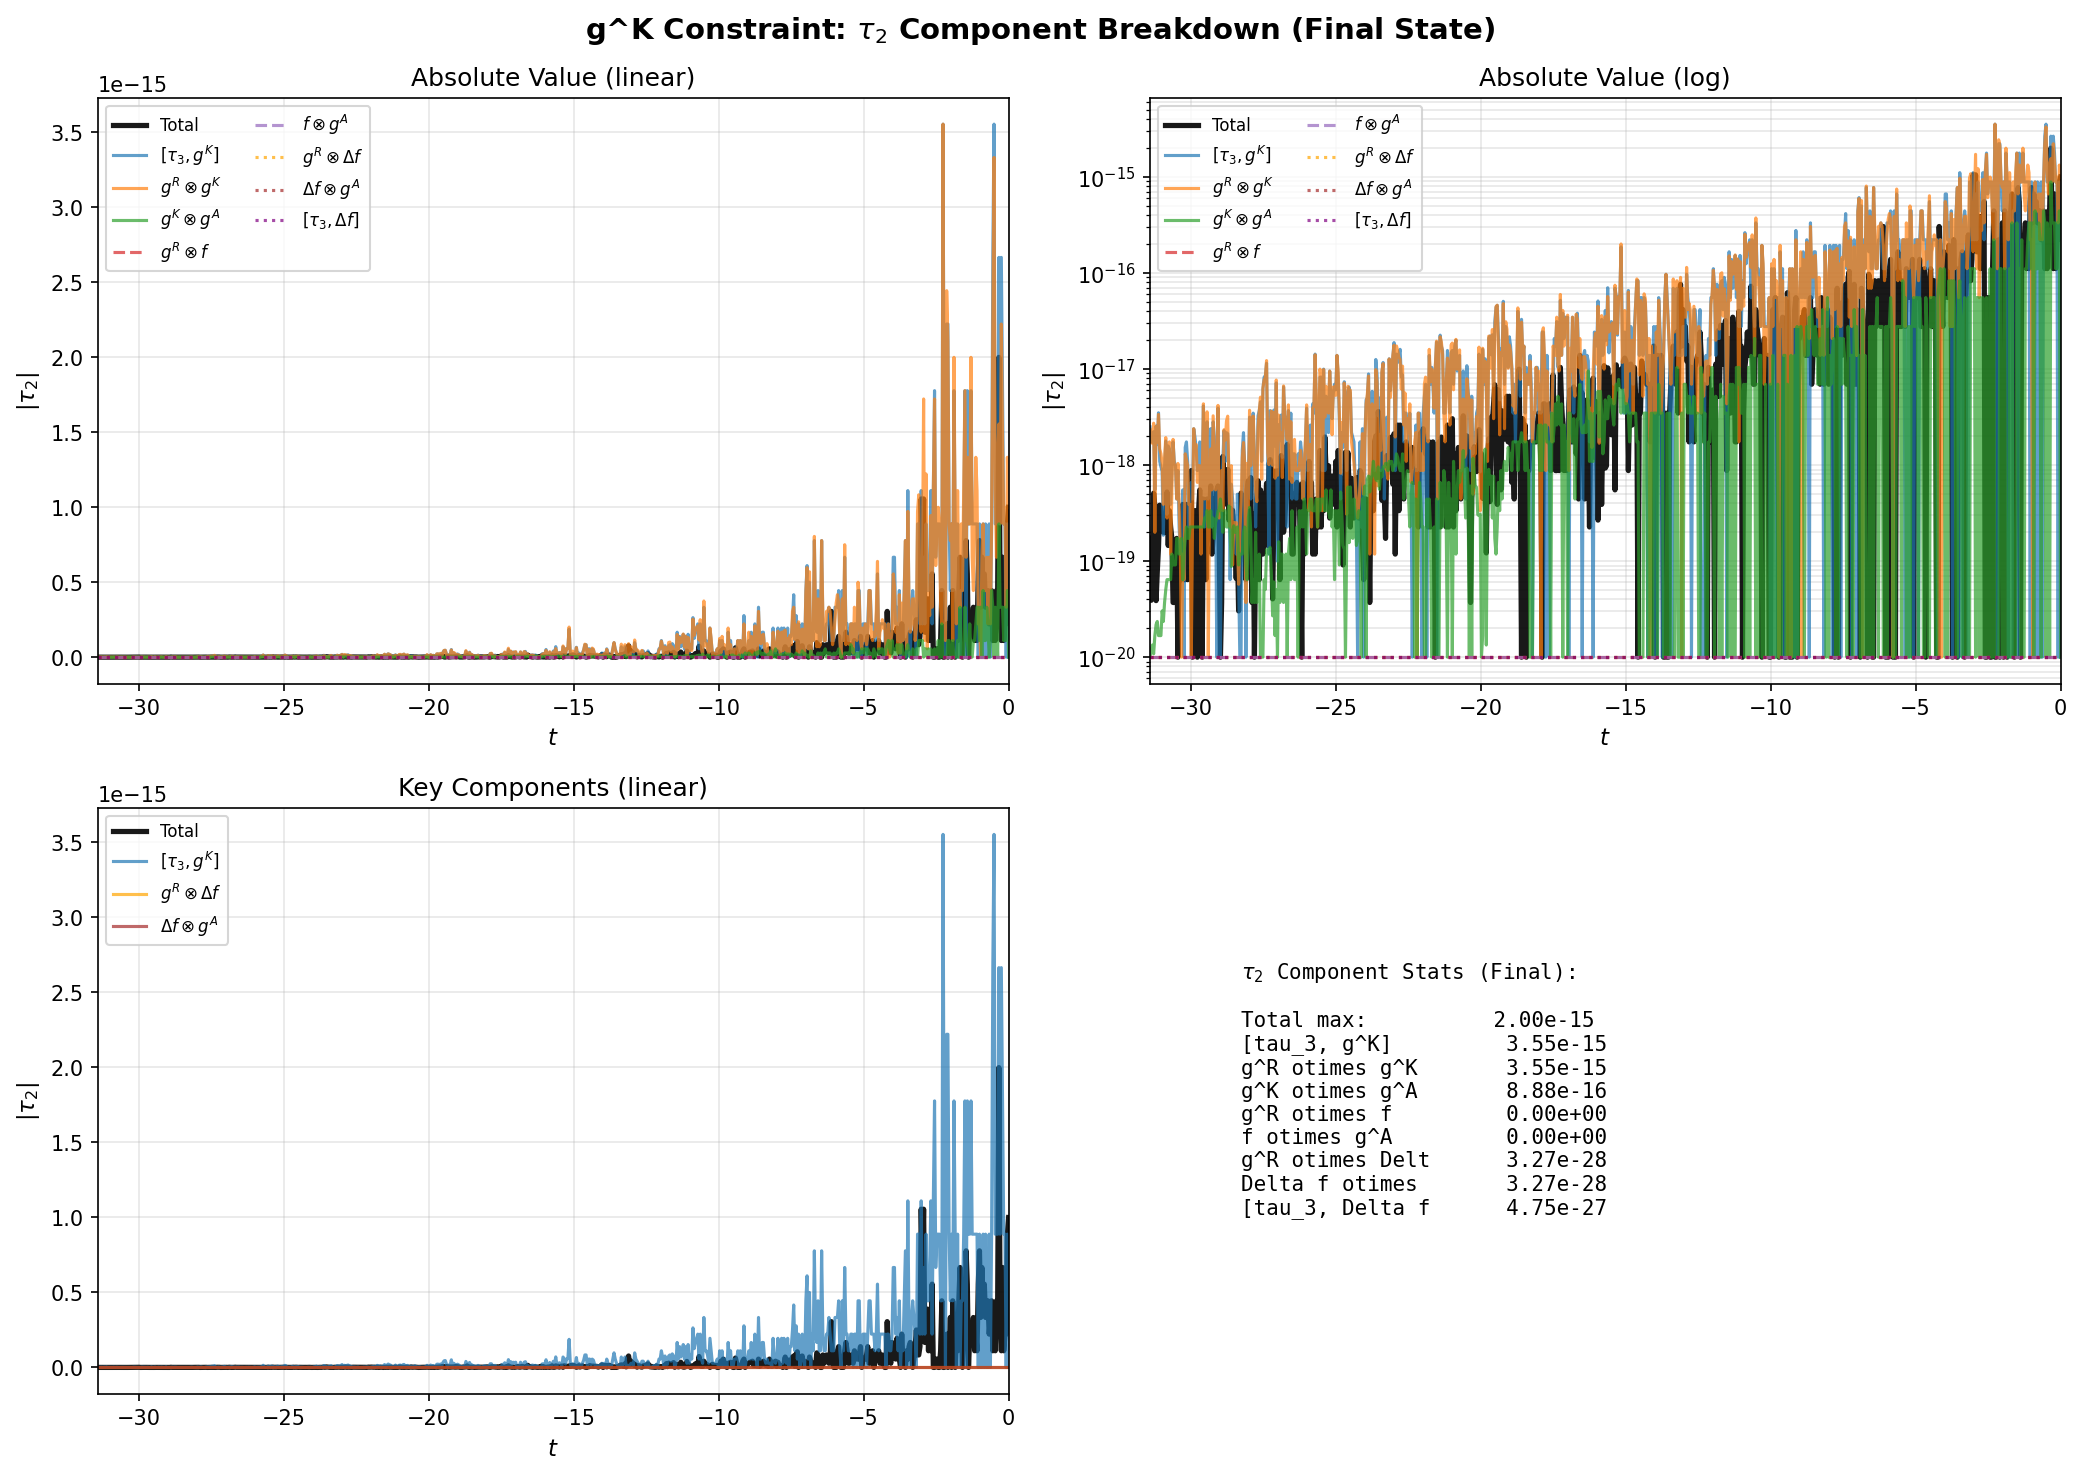
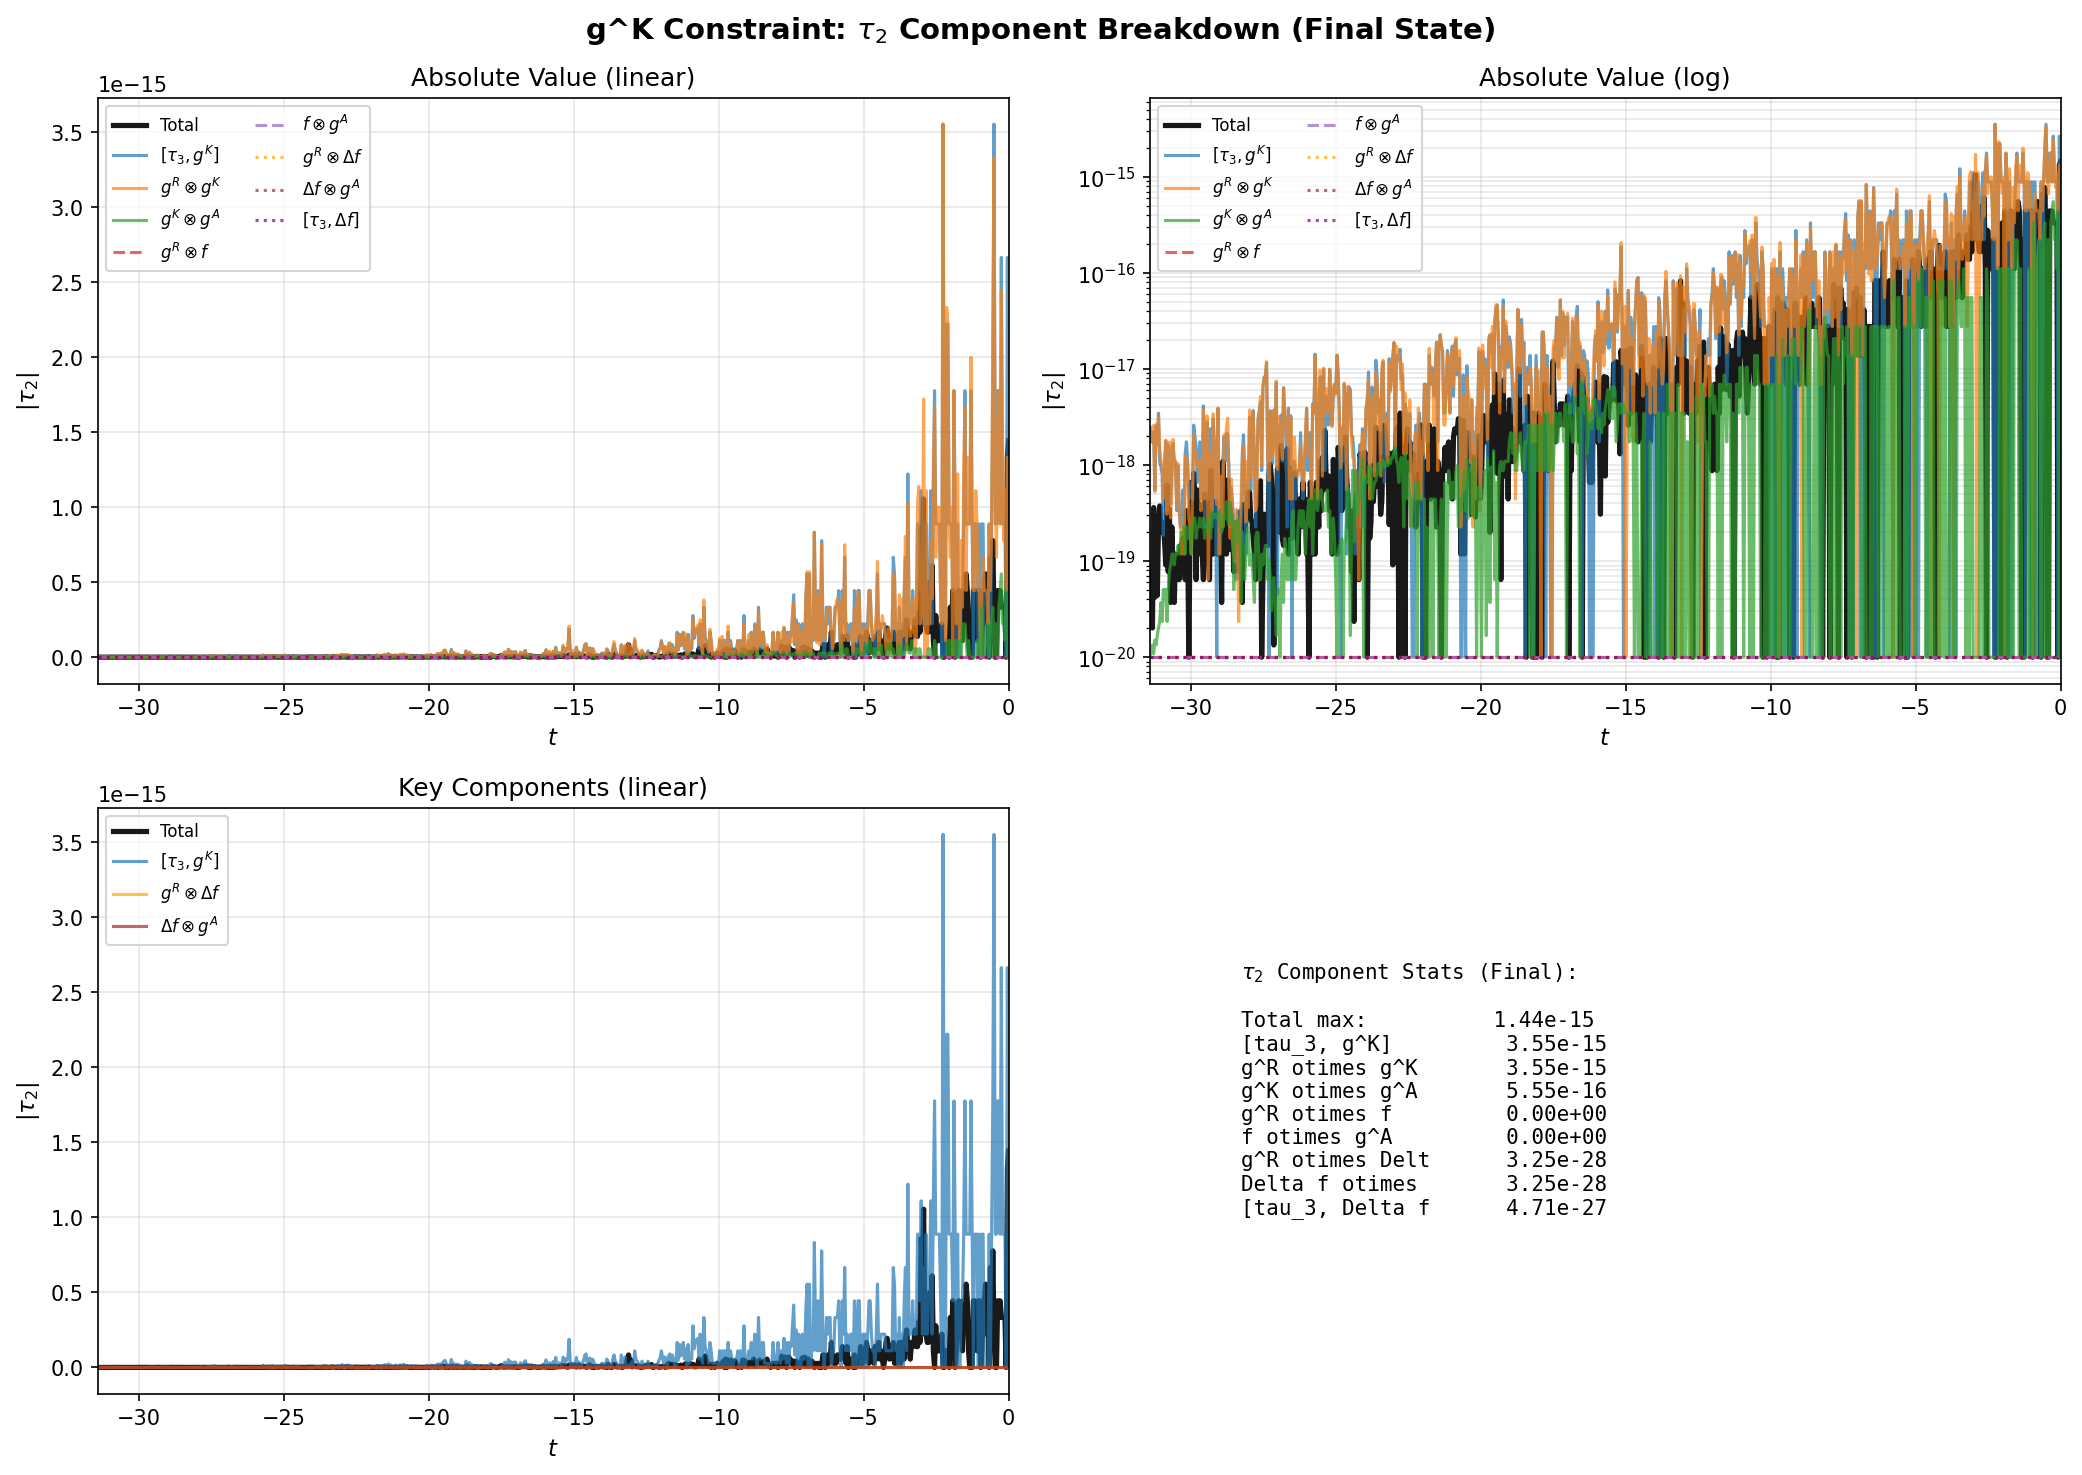
Update before the change.

diff --git a/usadel_keldysh_evolution.py b/usadel_keldysh_evolution.py
@@ -1052,10 +1052,11 @@ class UsadelKeldyshEvolution:
 
         diag_g_history_list += [(-gr_last_row * self.delta_t, tau0)] 
 
-        rhs_term_1 +=   -2 * (tau3 * ga.precise_convolution_right(self.thermal_dist[-1:,:],self.thermal_integral[-1:,:],self.delta_t,self_index=-1, precomputed_sum=self.thermal_sum_left[-1:,:], gap_tensor = gap_tensor) + gr_last_row.precise_convolution_left(self.thermal_dist , self.thermal_integral[-1:,:], self.delta_t, other_index=-1, precomputed_sum=self.thermal_sum_right[-1:,:],gap_tensor = gap_tensor) * tau3)
+        rhs_term_1 += -2 * (tau3 * ga.precise_convolution_right(self.thermal_dist[-1:,:],self.thermal_integral[-1:,:],self.delta_t,self_index=-1, precomputed_sum=self.thermal_sum_left[-1:,:]) + gr_last_row.precise_convolution_left(self.thermal_dist , self.thermal_integral, self.delta_t, other_index=-1, precomputed_sum=self.thermal_sum_right) * tau3)
         
-        # convolution with the midpoint rule    
-        thermal_gap_conv = -1  * self.delta_t  *  (gr_last_row @ thermal_gap_term - 0.5 * gr_last_row[-1:,-1:] * thermal_gap_term[-1:,:] + thermal_gap_term[-1:,:] @ ga - 0.5 * thermal_gap_term[-1:,:] * ga.diagonal_time())
+        # convolution with the midpoint rule
+        thermal_gap_conv = -1  * self.delta_t  *  (gr_last_row @ thermal_gap_term - 0.5 * gr_last_row[-1:,0:1] * thermal_gap_term[0:1,:] - 0.5 * gr_last_row[-1:,-1:] * thermal_gap_term[-1:,:]
+                                                     + thermal_gap_term[-1:,:] @ ga - 0.5 * thermal_gap_term[-1:,0] * ga[0:1,:] - 0.5 * thermal_gap_term[-1:,:] * ga.diagonal_time())
 
         #* regularization of the thermal_gap_integral with gr
         eval_time_1 = -self.tmax - self.time_grid
@@ -1461,7 +1462,7 @@ class UsadelKeldyshEvolution:
                 dt_end = None if dt_shift == 0 else -dt_shift
                 # Dynes self-energy terms -- sigma^K g^A + g^R sigma^K 
                 thermal_term += cn_factor * -2j * self.eta * ( tau3 * ga.precise_convolution_right(self.thermal_dist[-1-dt_shift:dt_end,:],self.thermal_integral[-1-dt_shift:dt_end,:], self.delta_t,self_index=-1-dt_shift, precomputed_sum=self.thermal_sum_left[-1-dt_shift:dt_end,:]).shift(dt_prime_shift, axis=1)
-                - gr[-1-dt_shift:dt_end,:].precise_convolution_left(self.thermal_dist, self.thermal_integral[-1-dt_shift:dt_end,:], self.delta_t, other_index=-1, precomputed_sum=self.thermal_sum_right[-1-dt_shift:dt_end,:]).shift(dt_prime_shift, axis=1) * tau3)
+                - gr[-1-dt_shift:dt_end,:].precise_convolution_left(self.thermal_dist, self.thermal_integral, self.delta_t, other_index=-1, precomputed_sum=self.thermal_sum_right).shift(dt_prime_shift, axis=1) * tau3)
                 # gap-f term
                 thermal_term += cn_factor * -2 * (-1j  * gap_tensor[-1-dt_shift] * tau3 * self.thermal_dist[-1-dt_shift:dt_end,:].shift(dt_prime_shift, axis=1) + 1j * tau3 * self.thermal_dist[-1-dt_shift:dt_end,:].shift(dt_prime_shift, axis=1) * gap_tensor.shift(dt_prime_shift, axis=0))
                 # new term 
@@ -1501,8 +1502,8 @@ class UsadelKeldyshEvolution:
                 for dt_shift in [0, 1]:  # NEW: Add missing dt_shift loop
                     dt_end = None if dt_shift == 0 else -dt_shift
 
-                    term1_left = -2j * (A_tensor[-1-dt_shift] * tau3 * gr[-1-dt_shift:dt_end, :] * A_tensor).precise_convolution_left(self.thermal_dist, self.thermal_integral[-1-dt_shift:dt_end,:], self.delta_t, other_index=-1, precomputed_sum=self.thermal_sum_right[-1-dt_shift:dt_end,:]).shift(dt_prime_shift, axis=1)
-                    term2_left = +2j * (gr[-1-dt_shift:dt_end, :] * A_tensor * tau3).precise_convolution_left(self.thermal_dist, self.thermal_integral[-1-dt_shift:dt_end,:], self.delta_t, other_index=-1, precomputed_sum=self.thermal_sum_right[-1-dt_shift:dt_end,:]).shift(dt_prime_shift, axis=1) * A_tensor.shift(dt_prime_shift, axis=0)
+                    term1_left = -2j * (A_tensor[-1-dt_shift] * tau3 * gr[-1-dt_shift:dt_end, :] * A_tensor).precise_convolution_left(self.thermal_dist, self.thermal_integral, self.delta_t, other_index=-1, precomputed_sum=self.thermal_sum_right).shift(dt_prime_shift, axis=1)
+                    term2_left = +2j * (gr[-1-dt_shift:dt_end, :] * A_tensor * tau3).precise_convolution_left(self.thermal_dist, self.thermal_integral, self.delta_t, other_index=-1, precomputed_sum=self.thermal_sum_right).shift(dt_prime_shift, axis=1) * A_tensor.shift(dt_prime_shift, axis=0)
                     term1and2_right = -2j * (A_tensor[-1-dt_shift] * tau3 * A_tensor * ga - A_tensor * ga * A_tensor * tau3).precise_convolution_right(self.thermal_dist[-1-dt_shift:dt_end,:],self.thermal_integral[-1-dt_shift:dt_end,:], self.delta_t,self_index=-1-dt_shift, precomputed_sum=self.thermal_sum_left[-1-dt_shift:dt_end,:]).shift(dt_prime_shift, axis=1)
 
                     em_thermal_conv1 += cn_factor * (term1_left + term2_left + term1and2_right)

diff --git a/state_object_class.py b/state_object_class.py
@@ -403,38 +403,33 @@ class StateObject:
 
         thermal_gap_term = (- thermal_integral * gap_tensor - gap_tensor * thermal_integral)
 
-        # Commutator term: [τ₃, g^K(t1, t2)] for all t2
-        commutator = tau3 * gk_row - gk_row * tau3  
-
-        # Add thermal_gap_term commutator: [τ₃, thermal_gap_term(t1, t2)]
+        # Add thermal_gap_term commutator:
         thermal_gap_commutator = tau3 * thermal_gap_term[t1_pos:t1_pos+1, :] - thermal_gap_term[t1_pos:t1_pos+1, :] * tau3
-        commutator = commutator + thermal_gap_commutator
+        
+        # commutator
+        commutator = tau3 * gk_row - gk_row * tau3   + thermal_gap_commutator
         
         # First convolution: ∫ g^R(t1, t') g^K(t', t2) dt' for all t2
-        conv1 = (gr_row @ self.gk) * self.dt  # shape (2,2,1,Nt) #* goes up to t for t' so we sum over all of them from -infty to t, i.e. full matrix
 
         # Apply midpoint rule to conv1
-        # Integration from t'=0 to t'=t1 for all t2
-        # First endpoint: gr[t1, 0] * gk[0, t2]
-        # Last endpoint: gr[t1, t1] * gk[t1, t2]
-        gr_t1_0 = self.gr[t1_pos, 0:1]  # shape (2,2)
-        gk_0_row = self.gk[0:1, :]  # shape (2,2,1,Nt)
-        first_endpoint_1 = gr_t1_0 * gk_0_row  # gr[t1, 0] * gk[0, t2]
+        gr_t1_0 = self.gr[t1_pos, 0:1]  
+        gk_0_row = self.gk[0:1, :]  
+        first_endpoint_1 = gr_t1_0 * gk_0_row  
 
-        gr_t1_t1 = self.gr[t1_pos, t1_pos:t1_pos+1]  # shape (2,2,1)
-        gk_t1_row = self.gk[t1_pos:t1_pos+1, :]  # shape (2,2,1,Nt)
-        last_endpoint_1 = gr_t1_t1 * gk_t1_row  # gr[t1, t1] * gk[t1, t2]
+        gr_t1_t1 = self.gr[t1_pos, t1_pos:t1_pos+1]  
+        gk_t1_row = self.gk[t1_pos:t1_pos+1, :]  
+        last_endpoint_1 = gr_t1_t1 * gk_t1_row  
 
-        conv1 = conv1 - 0.5 * self.dt * first_endpoint_1  - 0.5 * self.dt * last_endpoint_1
+        conv1 = (gr_row @ self.gk) * self.dt - 0.5 * self.dt * first_endpoint_1  - 0.5 * self.dt * last_endpoint_1
 
         # Add thermal_gap_term convolution: ∫ g^R(t1, t') thermal_gap_term(t', t2) dt'
-        thermal_gap_gr_conv = (gr_row @ thermal_gap_term) * self.dt
         thermal_gap_0_row = thermal_gap_term[0:1, :]
         thermal_gap_gr_first = gr_t1_0 * thermal_gap_0_row
         thermal_gap_gr_last = gr_t1_t1 * thermal_gap_term[t1_pos:t1_pos+1, :]
-        thermal_gap_gr_conv = thermal_gap_gr_conv - 0.5 * self.dt * thermal_gap_gr_first - 0.5 * self.dt * thermal_gap_gr_last
+        thermal_gap_gr_conv =  (gr_row @ thermal_gap_term) * self.dt - 0.5 * self.dt * thermal_gap_gr_first - 0.5 * self.dt * thermal_gap_gr_last
 
         # Add log regularization for gr @ thermal_gap_term
+        #* regularization of the thermal_gap integral due to the log divergent term 
         if log_two_time is not None and tmax is not None:
             expansion_tensor = NambuKeldyshTensor(np.ones(N_t), pauli_channel=0)
             eval_time_1 = -tmax - self.time_grid
@@ -445,7 +440,7 @@ class StateObject:
             # Extract gap at time t1_pos
             gap_at_t1 = gap_tensor[t1_pos:t1_pos+1]
             log_reg_gr = -1 * gr_row * -2 * gap_at_t1 * ((-1 * expansion_tensor @ log_two_time + 0.5 * log_two_time[t1_pos, :]) * self.dt + (log_term_edge_1 - log_term_edge_2))
-            thermal_gap_gr_conv = thermal_gap_gr_conv + log_reg_gr
+            #thermal_gap_gr_conv = thermal_gap_gr_conv + log_reg_gr
 
         conv1 = conv1 + thermal_gap_gr_conv
 
@@ -489,7 +484,7 @@ class StateObject:
             # Extract gap at time t1_pos
             gap_at_t1 = gap_tensor[t1_pos:t1_pos+1]
             log_reg_ga = -1 * full_expansion_tensor * ((-1 * log_two_time[t1_pos, :] @ ones_tensor + 0.5 * log_two_time[t1_pos, :]) * self.dt + (log_term_edge_3 - log_term_edge_4)) * gap_at_t1 * -2 * ga.diagonal_time()
-            thermal_gap_ga_conv = thermal_gap_ga_conv + log_reg_ga
+            #thermal_gap_ga_conv = thermal_gap_ga_conv + log_reg_ga
 
         conv2 = conv2 + thermal_gap_ga_conv
         

diff --git a/nambu_keldysh_class.py b/nambu_keldysh_class.py
@@ -371,8 +371,6 @@ class NambuKeldyshTensor:
         filter_tensor[-1,-1] = 0.5
         filter_tensor = NambuKeldyshTensor(filter_tensor, pauli_channel=0)
 
-        print('gradient correction right is', gradient_correction[-1,-3:].trace(pauli_index=2))
-
         return (result_std + (- result_fact + result_anal) + filter_tensor * gradient_correction)
 
     def _check_binary_shape_compatibility(self, other):
